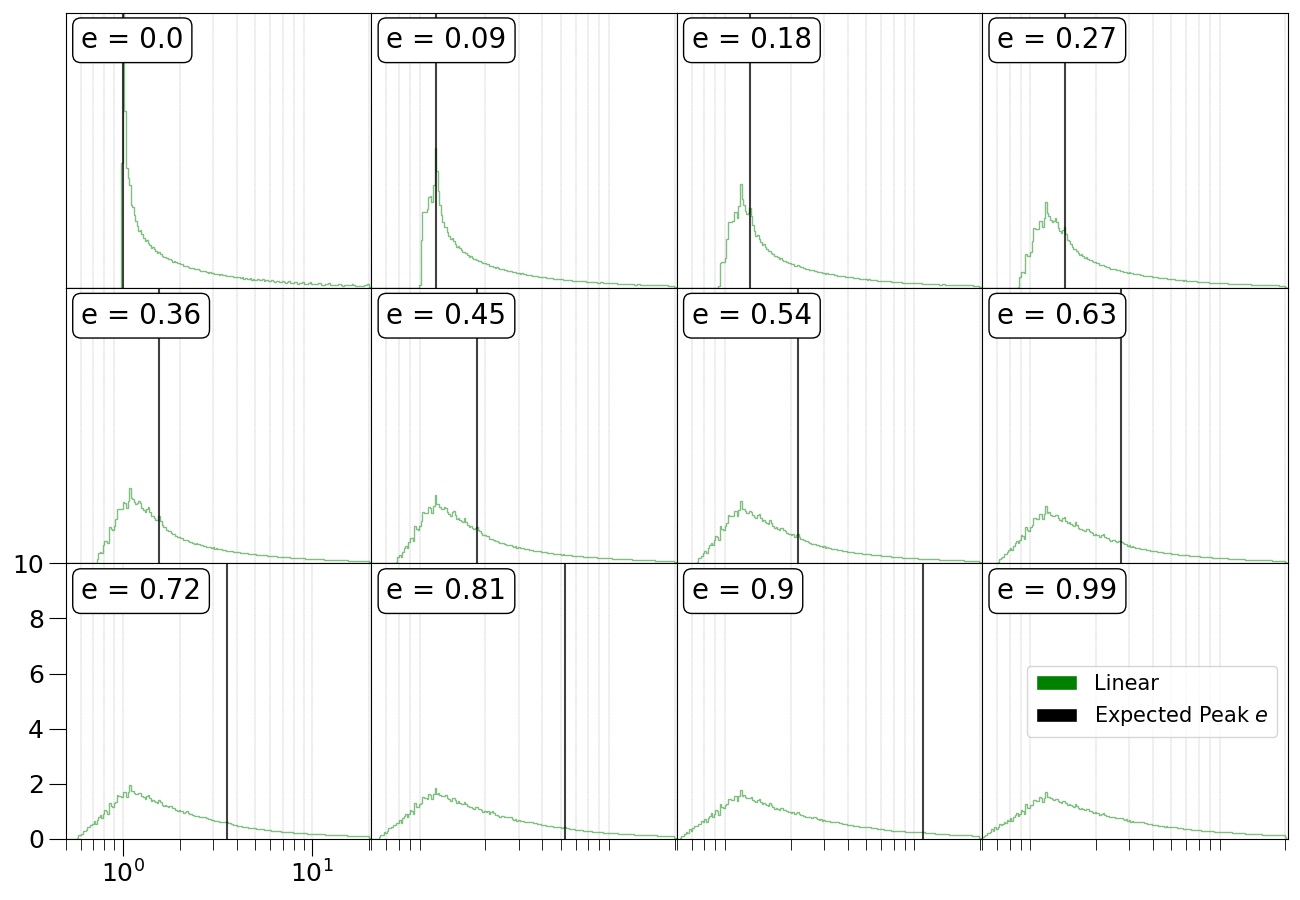
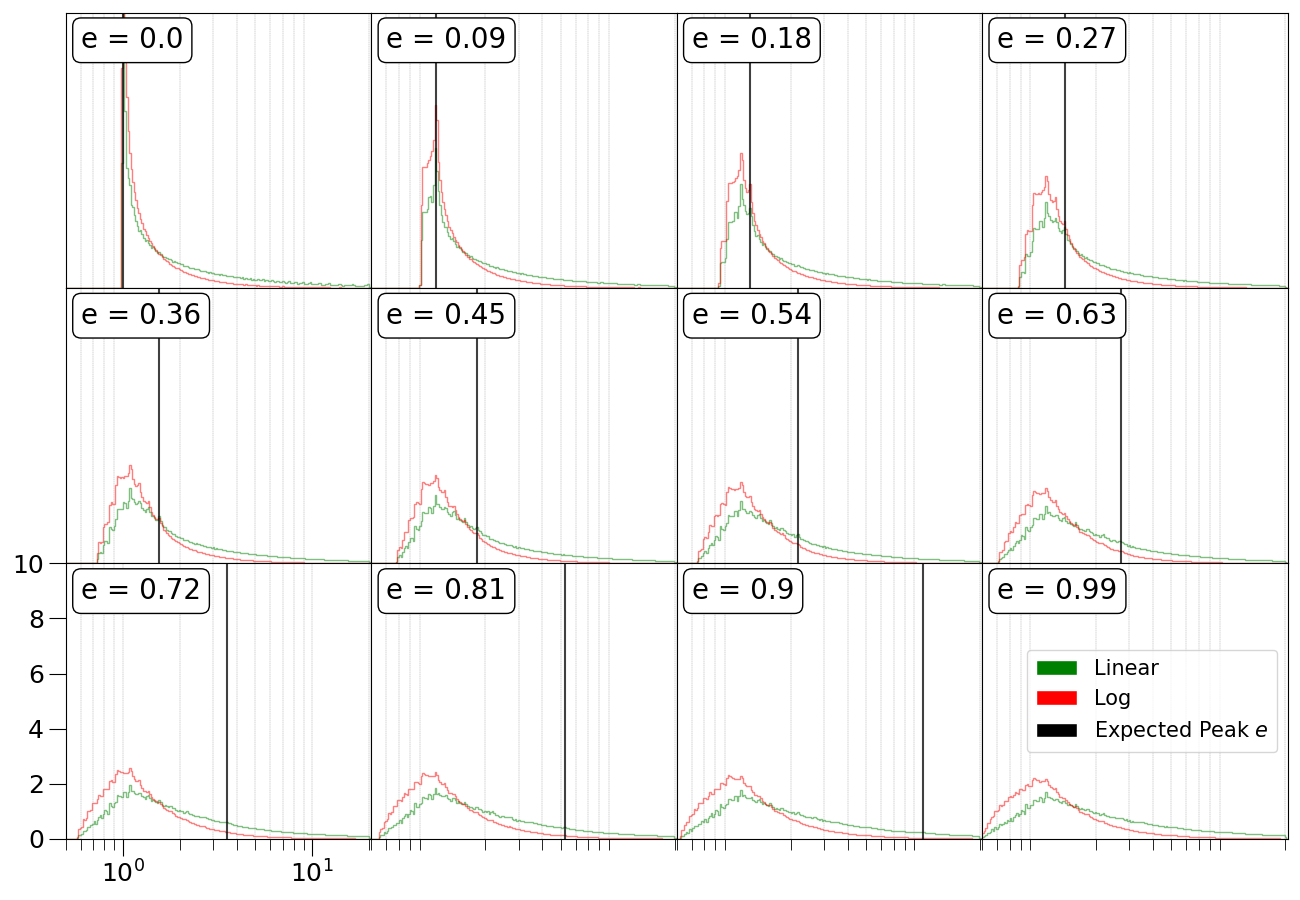
- Combined Linear and Log for CompleteHist_incline of 100 for omega and inclination - Changed weights of Fractional Uncertainty to be in line with paper (using Probability from likelihood)
- Realized that removing duplicate models does little to nothing to change stats and visuals of histogram

diff --git a/Sep_plot.py b/Sep_plot.py
@@ -785,9 +785,11 @@ class Sep_plot(Sep_gen):
         if inclination:
             try:
                 file_name = f'/College_Projects/Microlensing Separation/Results/UnityHist_inclines_{self.wnum}_{which}.csv'
+                file_name1 = f'/College_Projects/Microlensing Separation/Results/UnityHist_inclines_{self.wnum}_{"Log"}.csv'
                 pd.read_csv(file_name)
             except FileNotFoundError:
                 file_name = f'/Users/victo/College_Projects/Microlensing Separation/Results/UnityHist_inclines_{self.wnum}_{which}.csv'
+                file_name1 = f'/College_Projects/Microlensing Separation/Results/UnityHist_inclines_{self.wnum}_{"Log"}.csv'
         else:
             try:
                 file_name = f'/College_Projects/Microlensing Separation/Results/UnityHist_omegas_{self.wnum}_{which}.csv'
@@ -795,6 +797,7 @@ class Sep_plot(Sep_gen):
             except FileNotFoundError:
                 file_name = f'/Users/victo/College_Projects/Microlensing Separation/Results/UnityHist_omegas_{self.wnum}_{which}.csv'
         df = pd.read_csv(file_name)
+        df1 = pd.read_csv(file_name1)
         if inclination:
             eccent = np.linspace(0,0.99,12)
         else:
@@ -818,7 +821,7 @@ class Sep_plot(Sep_gen):
             colorlist = ["green", "red", "blue", "black"]
         else:
             if which == "Linear":
-                colorlist = ["green", "black"]
+                colorlist = ["green", "red", "black"]
             elif which == "Log":
                 colorlist = ["red", "black"]
             else:
@@ -841,11 +844,16 @@ class Sep_plot(Sep_gen):
                 StepPatch_power = ax.stairs(hist_power * norm_power, logbins, edgecolor = colorlist[2], fill = False, alpha = 0.5, label = "Power")
             else:
                 iter_param = eccent[j]
+                iter_param_log = eccent[j]
                 hist = df[f"final lin {round(iter_param,3)}"]
+                hist_log = df1[f"final lin {round(iter_param_log,3)}"]
 
                 norm = np.abs(1 / (logbinsize * hist.sum()))
+                norm_log = np.abs(1 / (logbinsize * hist_log.sum()))
+
                 StepPatch = ax.stairs(hist * norm, logbins, edgecolor = colorlist[0], fill = False, alpha = 0.5, label = f"{which}")
-                
+                StepPatch_log = ax.stairs(hist_log * norm_log, logbins, edgecolor = colorlist[1], fill = False, alpha = 0.5, label = "Log")
+
             # Limits
             limit = [x for x in np.arange(0.5, 20 + 0.5 , 0.5)]
             ax.set_xlim(0.5,20.5)
@@ -875,7 +883,7 @@ class Sep_plot(Sep_gen):
             if j == 11:
                 handles = [patches.Rectangle((0,0),1,1,color = c, ec = "w") for c in colorlist]
                 if inclination:
-                    labels = [f"{which}", r"Expected Peak $e$"]
+                    labels = [f"{which}", "Log", r"Expected Peak $e$"]
                 else:
                     labels = ["Linear", "Log", r"Power Law: $\alpha = 2$", r"Expected Peak $e$"]
                 ax.legend(handles = handles, labels = labels, loc = "best", fontsize = 15)    
@@ -1903,7 +1911,7 @@ if __name__ == "__main__":
     wnum = 100 # THIS DETERMINES HOW MANY POSITIONS IN THE ARRAY THERE ARE
     inum = wnum
     # FOR REAL LINEAR, alpha = 0, FOR REAL LOG, alpha = -1, FOR REAL POWER, alpha = 1
-    which = "Log"
+    which = "Linear"
     alpha = -1 # For test = True, this becomes the comparison to which
     inclination = True # KEEP IN MIND THIS VALUE
     circ = False
@@ -1920,11 +1928,11 @@ if __name__ == "__main__":
     
    # CompleteHistLoad includes Omega and Inclination marginalization!
     # tothist.CompleteHistGen(which = which, unity = unity)
-    # tothist.CompleteHistLoad(which = which, inclination = inclination)
+    tothist.CompleteHistLoad(which = which, inclination = inclination)
     
     # UnityPlotHistGen includes Inclination and Eccentricity Marginalization!
     # folder = tothist.UnityPlotHistGen(which = which, unity = unity, circ = circ, gamma_bool = gamma_bool, inclination = inclination)
-    load = tothist.UnityPlotHistLoad(which = which, alpha_step = alpha, dist = dist, circ = circ, test = test)
+    # load = tothist.UnityPlotHistLoad(which = which, alpha_step = alpha, dist = dist, circ = circ, test = test)
     # cdf = tothist.statistics(which = which, alpha_step = alpha, test = test)
     
     # Note: stepalpha function can also combine uniform and circular distributions!
